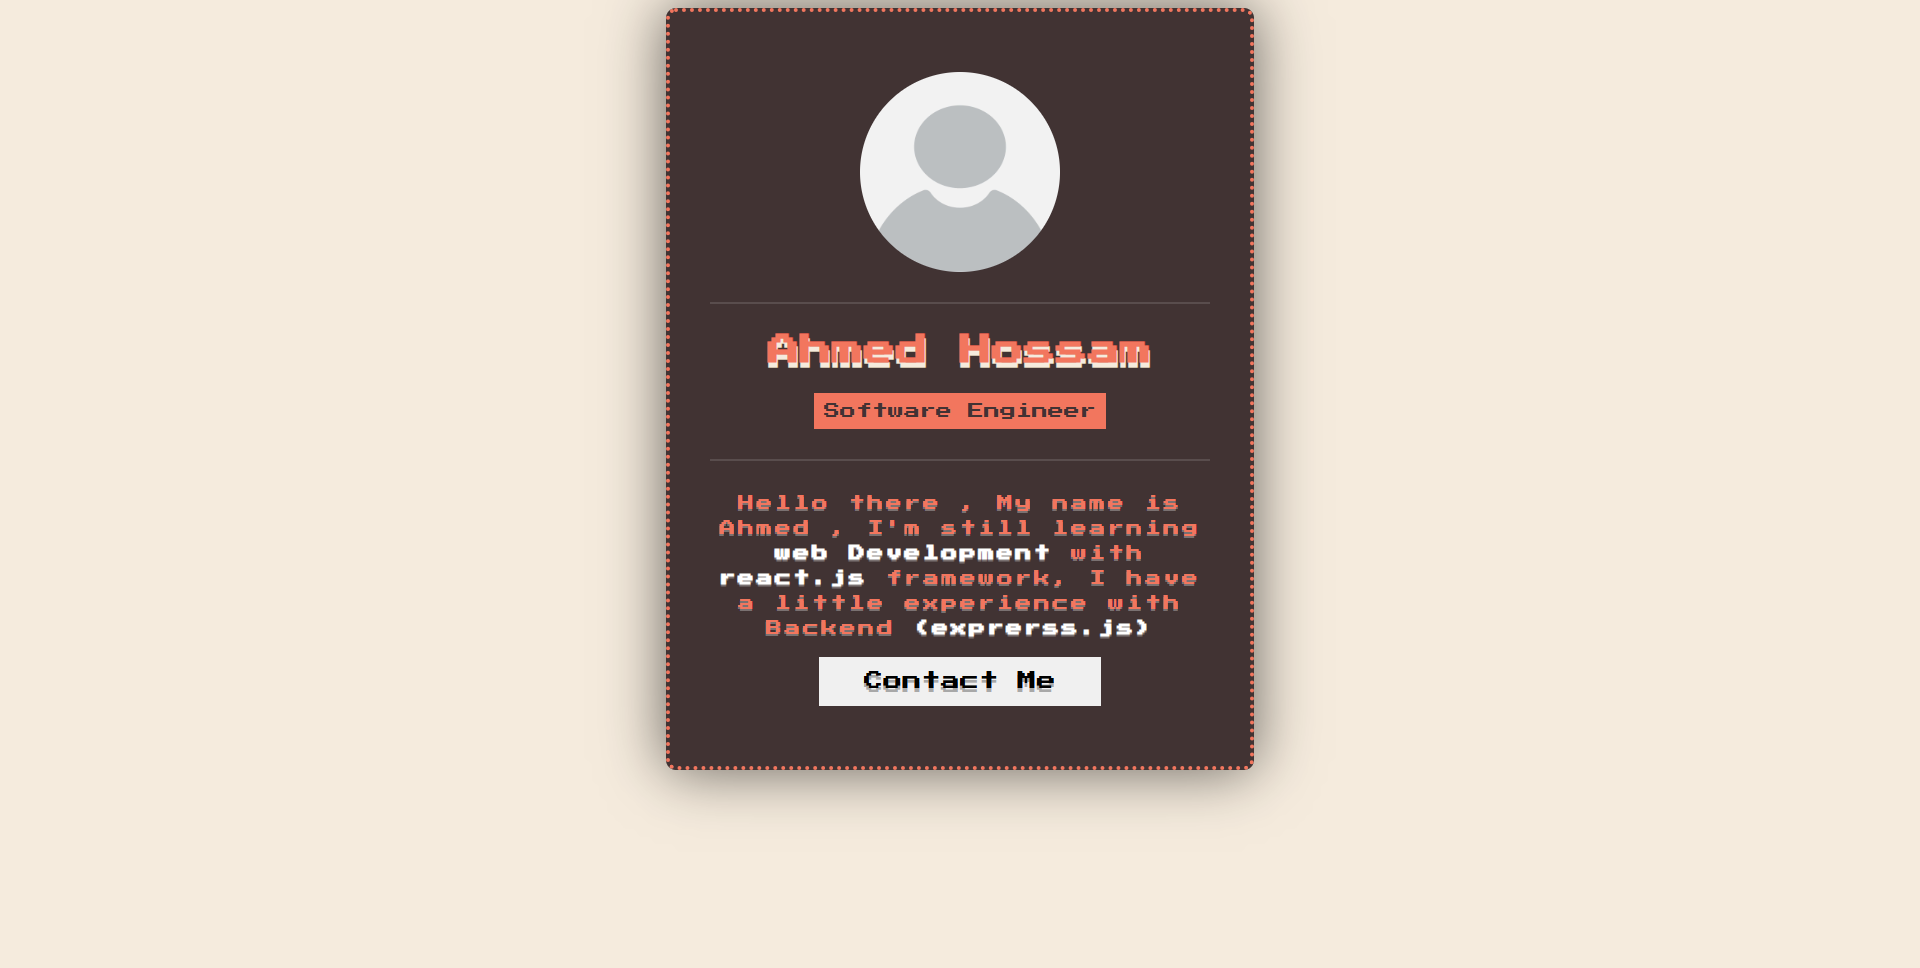
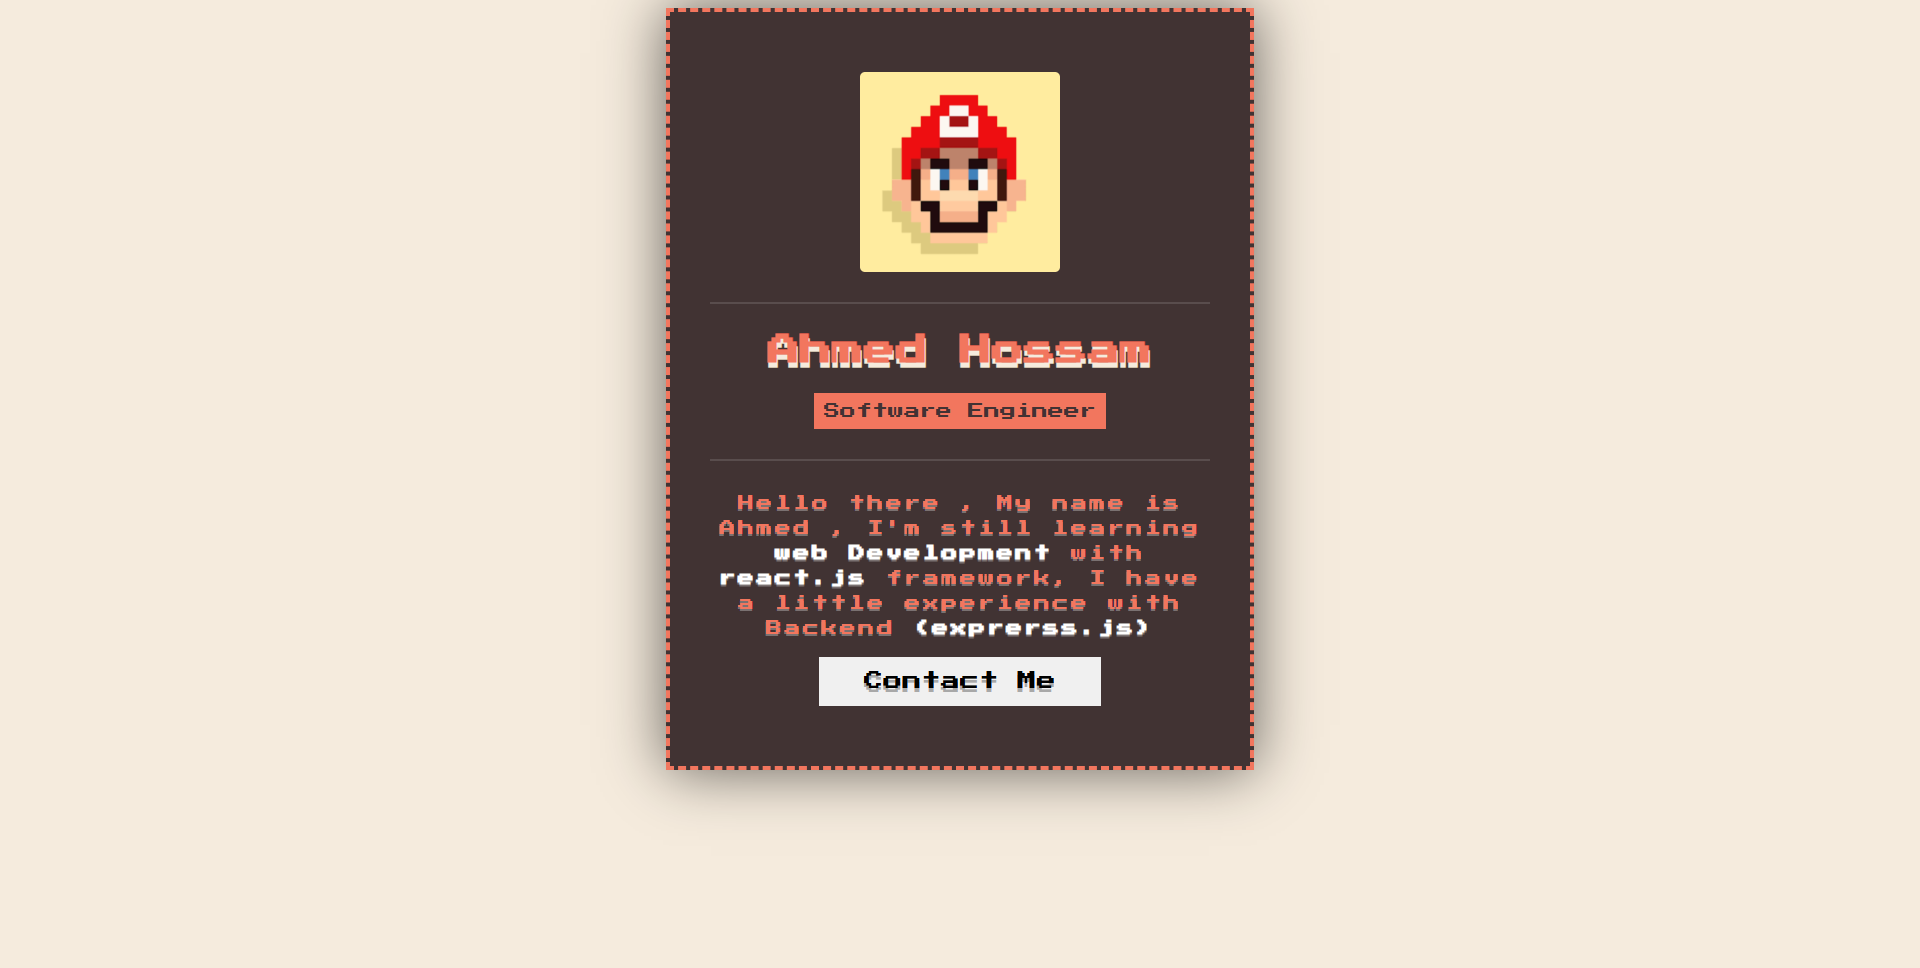
added day-7 , brief card

diff --git a/day-7/css/style.css b/day-7/css/style.css
@@ -12,11 +12,11 @@ body {
 .card-container {
   background-color: var(--primary-color);
   width: 500px;
-  border-radius: 10px;
+  /* border-radius: 10px; */
   box-shadow: 0 0 60px rgba(0, 0, 0, 0.6);
   margin: 0 auto;
   padding: 60px 40px;
-  border: 4px dotted var(--text-color);
+  border: 4px dashed var(--text-color);
 }
 
 .card-container .personal-image {
@@ -24,7 +24,7 @@ body {
   height: 200px;
   margin: 0 auto;
   display: block;
-  border-radius: 50%;
+  border-radius: 5px;
 }
 
 .card-container .personal-name,

diff --git a/day-7/index.html b/day-7/index.html
@@ -15,7 +15,7 @@
   <body>
     <div class="card-container">
       <img
-        src="./assets/images/personal_image.jpg"
+        src="./assets/images/personal_image2.png"
         alt="Image 1"
         class="personal-image"
       />
